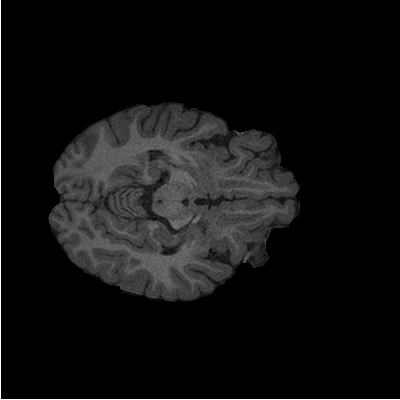
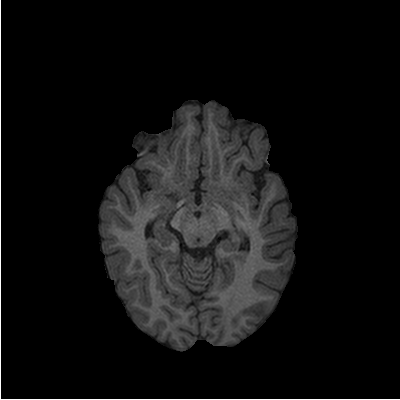
corregi la orientacion de la imagen 90 grados

Changed region(s): [[0.12, 0.24, 0.75, 0.9]]

diff --git a/nifti_tests.rb b/nifti_tests.rb
@@ -40,7 +40,7 @@ canvas = PNG::Canvas.new(width, height)
 
 narr.indices do |n,m|
   val=(narr[n,m])
-  canvas[m,n] = PNG::Color.new(val,val,val)
+  canvas[n,m] = PNG::Color.new(val,val,val)
 end
 
 png = PNG.new canvas
